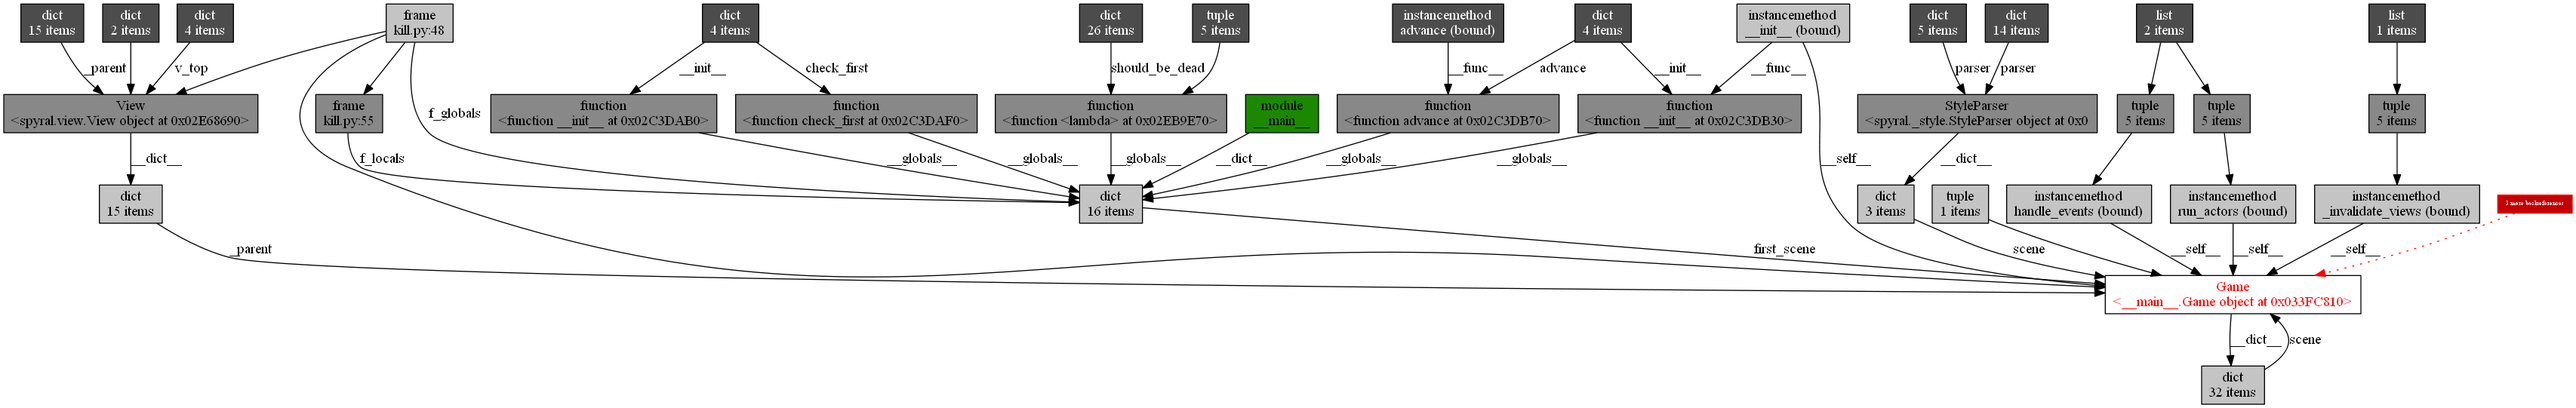
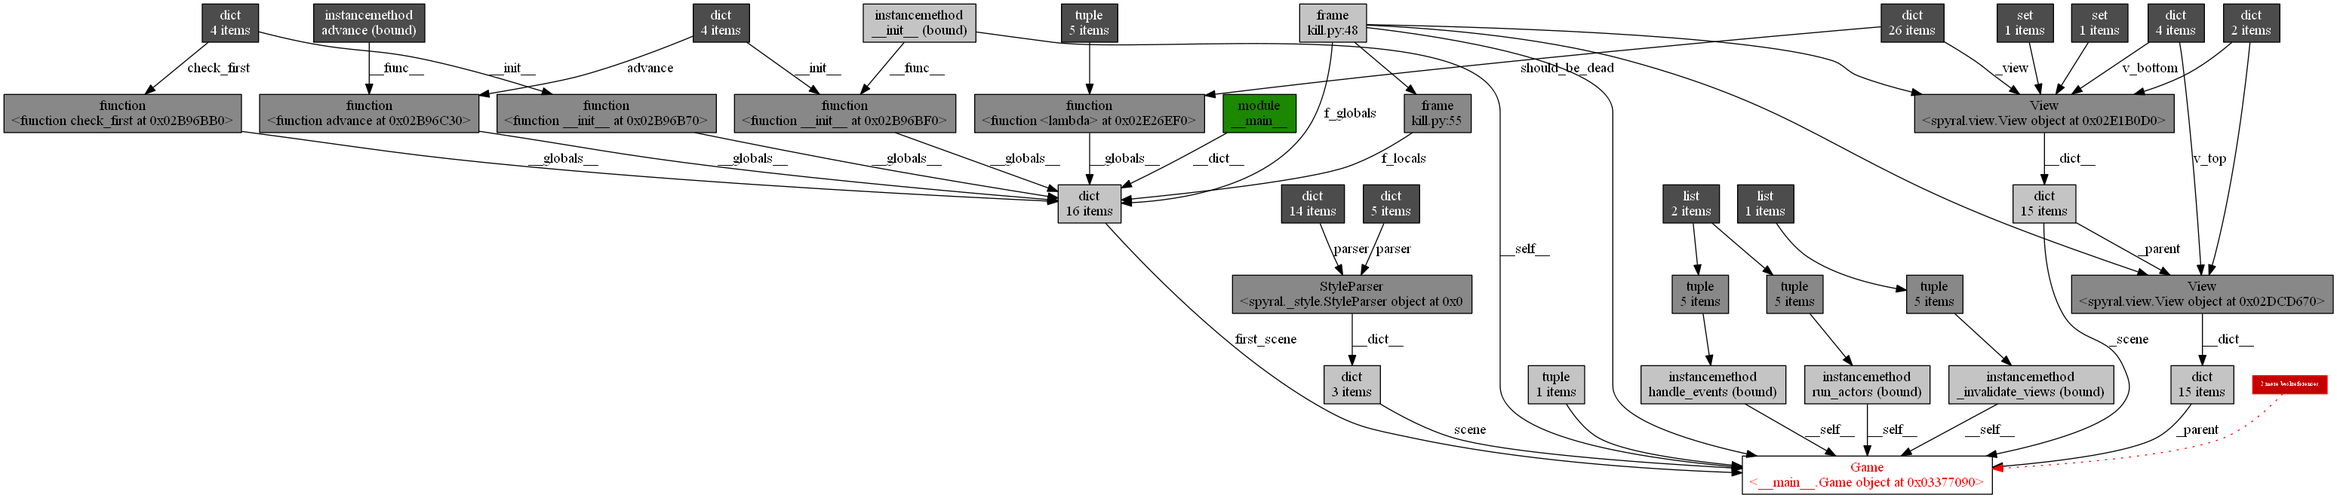
Scenes no longer have a strong reference to themselves

diff --git a/spyral/scene.py b/spyral/scene.py
@@ -11,6 +11,7 @@ import sys
 import math
 from layertree import LayerTree
 from collections import defaultdict
+from weakref import ref as _wref
 
 class Scene(object):
     """
@@ -83,8 +84,7 @@ class Scene(object):
         self.register('spyral.internal.view.changed.*', self._invalidate_views)
 
         # View interface
-        #self.scene = self
-        self._parent = self
+        self._scene = _wref(self)
         self._views = []
 
         # Loading default styles
@@ -403,6 +403,11 @@ class Scene(object):
     
     def _get_rect(self):
         return spyral.Rect((0,0), self.size)
+        
+    def _get_scene(self):
+        return self._scene()
+    def _get_parent(self):
+        return self._scene()
 
     #: Read-only property that returns a :class:`Vec2D <spyral.Vec2D>` of the width and height of the Scene's size. See `View size and Window size`_ for more details.
     size = property(_get_size)
@@ -410,6 +415,9 @@ class Scene(object):
     width = property(_get_width)
     #: Read-only property that returns the height of the Scene (int).
     height = property(_get_height)
+    
+    scene = property(_get_scene)
+    parent = property(_get_parent)
     
     rect = property(_get_rect)
 
@@ -438,7 +446,7 @@ class Scene(object):
             if parent_view not in self._invalidating_views:
                 self._invalidating_views[parent_view] = set()
             self._invalidating_views[parent_view].add(sprite)
-            parent_view = parent_view._parent
+            parent_view = parent_view.parent
 
     def _unregister_sprite(self, sprite):
         """
